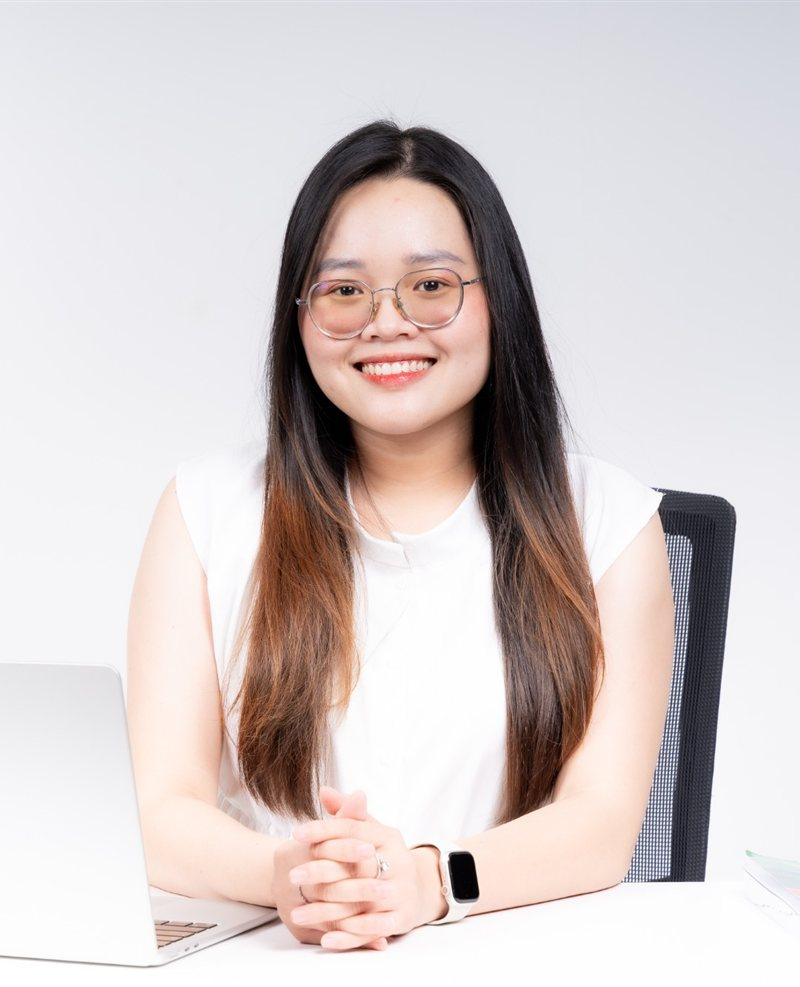
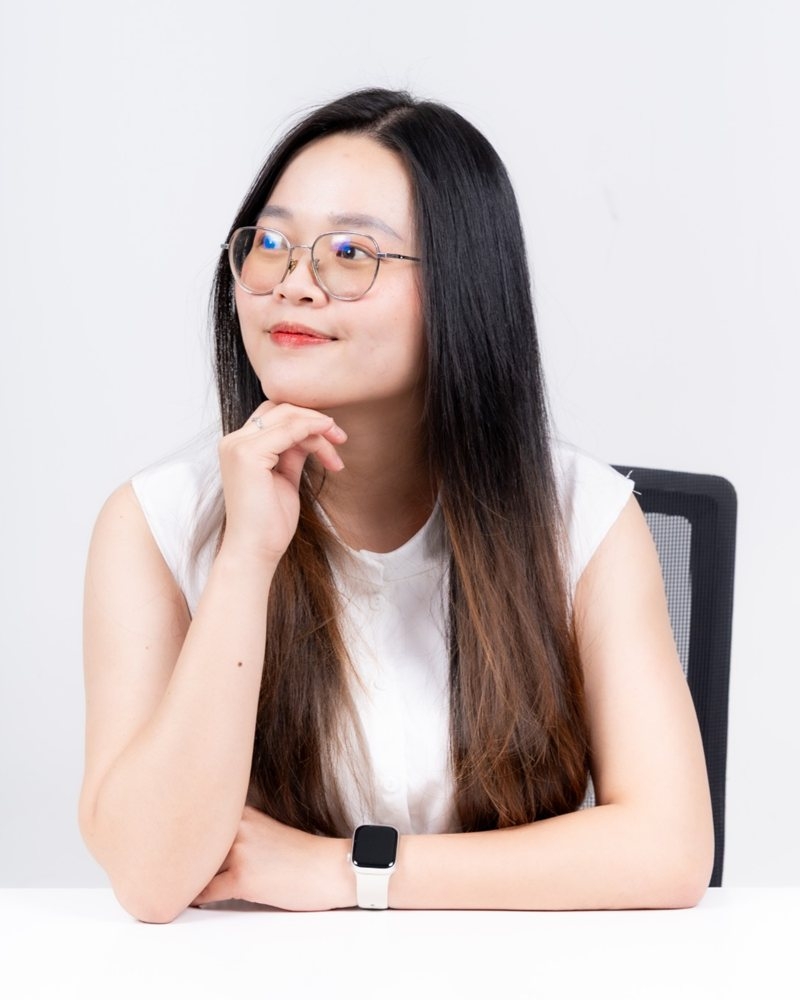
Đổi ảnh đầu trang sang ảnh chống cằm; phần câu chuyện dùng ảnh ngồi bàn laptop

diff --git a/index.html b/index.html
@@ -286,7 +286,7 @@
         </div>
       </div>
       <div class="anh-hero">
-        <img src="anh/chan-dung.jpg" alt="Ms. Minh Thư mỉm cười, ngồi bên bàn làm việc" width="800" height="987">
+        <img src="anh/chan-dung.jpg" alt="Ms. Minh Thư ngồi bên bàn, tay chống cằm, mỉm cười" width="800" height="1000">
         <i class="la la-1"></i><i class="la la-2"></i>
       </div>
     </div>
@@ -359,7 +359,7 @@
   <!-- 5. Câu chuyện -->
   <section class="chuyen" id="cau-chuyen" style="background:var(--nen-2)">
     <div class="khung">
-      <img src="anh/cau-chuyen.jpg" alt="Ms. Minh Thư ngồi bên bàn làm việc, chống cằm mỉm cười" width="800" height="533" loading="lazy">
+      <img src="anh/cau-chuyen.jpg" alt="Ms. Minh Thư ngồi bên bàn laptop, mỉm cười" width="800" height="533" loading="lazy">
       <div>
         <span class="nhan">Câu chuyện của Ms</span>
         <h2 style="margin-top:12px">Từng bị chê tiếng Anh kém, Ms đã trở thành “chị giáo” như thế nào?</h2>
